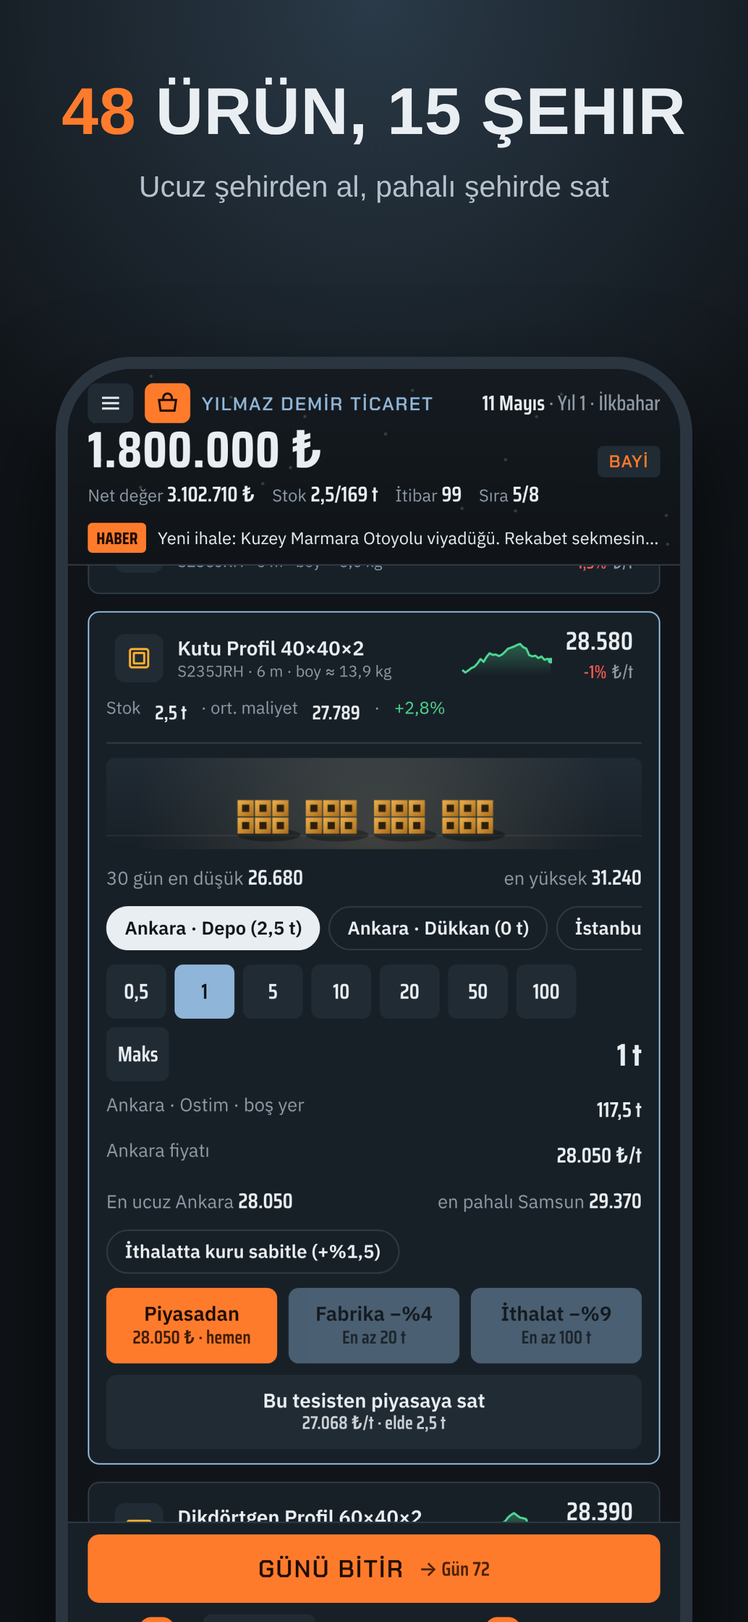
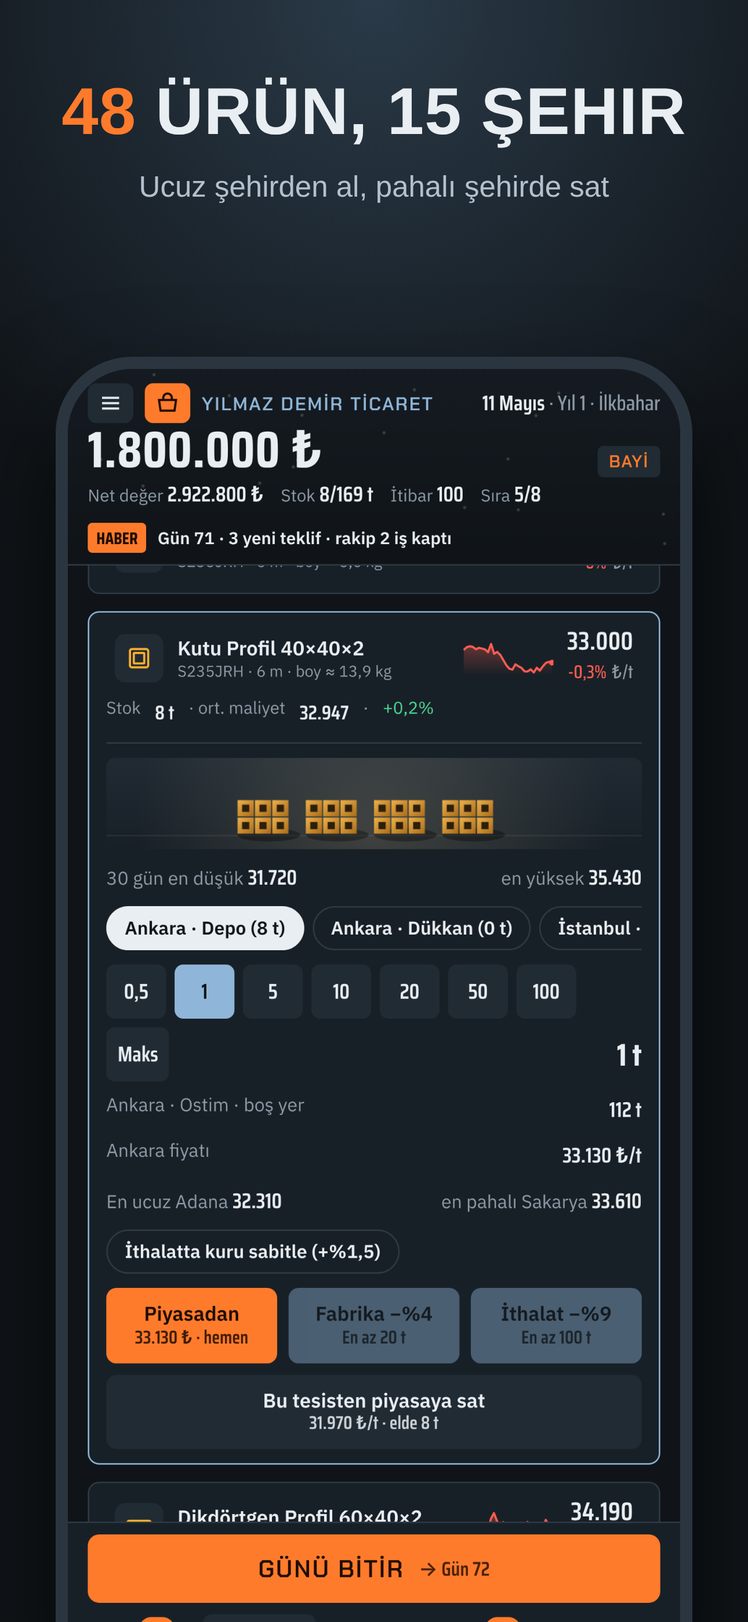
Demir Baronu: screen layout pass - nothing covers the content
- Main menu: in-flow industrial scene (was fixed and covered buttons on
  short phones), responsive logo, 2x2 tiles; fits iPhone SE without scroll
- Day summary goes to the HUD news line; toasts are small pills, max two,
  tap to dismiss
- Orders: tutorial, daily tasks, event, tender and price war become one
  swipeable row of pills with details on tap; offers visible at once
- Facilities: summary card with stock chips, details under 'Yönet'
- Company: 13 collapsible sections with summaries
- Fixed scroll strips collapsing to zero height inside the tab view
  (pills/filters could not be tapped); compact HUD on short screens;
  smaller bottom-sheet modals; store screenshots refreshed

Claude-Session: https://claude.ai/code/session_016sMKQh1ngtHg4vQwRxme7Z

diff --git a/DemirBaronu/web/play.html b/DemirBaronu/web/play.html
@@ -50,6 +50,7 @@ select { font: inherit; color: var(--fg); background: var(--bg); border: 1px sol
 
 /* Content */
 #main { flex: 1; overflow-y: auto; -webkit-overflow-scrolling: touch; padding-block: 12px 16px; display: flex; flex-direction: column; gap: 12px; }
+#main > * { flex-shrink: 0; }
 h2 { font-family: var(--display); font-size: 15px; letter-spacing: .06em; text-transform: uppercase; margin: 0; color: var(--steel); text-wrap: balance; }
 .sec { display: flex; flex-direction: column; gap: 8px; }
 .sechead { display: flex; justify-content: space-between; align-items: baseline; gap: 8px; flex-wrap: wrap; }
@@ -140,17 +141,20 @@ svg.nw { width: 100%; height: 90px; display: block; }
   font-family: var(--num); font-size: 12px; font-weight: 700; line-height: 17px; padding: 0 4px; }
 
 /* Toast + modal */
-#toast { position: fixed; left: 50%; transform: translateX(-50%); bottom: calc(140px + env(safe-area-inset-bottom, 0px)); width: min(520px, calc(100% - 28px));
-  display: flex; flex-direction: column; gap: 6px; pointer-events: none; z-index: 20; }
-#toast div { background: var(--fg); color: var(--bg); padding: 10px 12px; border-radius: 8px; font-size: 13px; font-weight: 500; box-shadow: 0 6px 24px rgba(0,0,0,.4);
-  animation: tin .22s ease-out; }
+#toast { position: fixed; left: 50%; transform: translateX(-50%); bottom: calc(132px + env(safe-area-inset-bottom, 0px)); width: min(480px, calc(100% - 40px));
+  display: flex; flex-direction: column; align-items: center; gap: 5px; pointer-events: none; z-index: 20; }
+#toast div { pointer-events: auto; cursor: pointer; max-width: 100%; box-sizing: border-box; background: rgba(233,238,242,.96); color: #14181d; padding: 7px 12px; border-radius: 16px;
+  font-size: 12.5px; font-weight: 600; line-height: 1.35; box-shadow: 0 6px 18px rgba(0,0,0,.35); animation: tin .2s ease-out;
+  display: -webkit-box; -webkit-line-clamp: 2; -webkit-box-orient: vertical; overflow: hidden; }
 #toast div.bad { background: var(--bad); color: #fff; }
 @keyframes tin { from { transform: translateY(8px); opacity: 0; } }
 #modal { position: fixed; inset: 0; background: rgba(5,8,10,.72); display: flex; align-items: flex-end; justify-content: center; z-index: 30;
   padding: 16px max(16px, env(safe-area-inset-right, 0px)) max(16px, env(safe-area-inset-bottom, 0px)) max(16px, env(safe-area-inset-left, 0px)); }
-#modal .box { background: var(--panel); border: 1px solid var(--line); border-radius: 12px; padding: 18px; width: 100%; max-width: 520px; display: flex; flex-direction: column; gap: 12px;
-  max-height: 88%; overflow-y: auto; }
-#modal h3 { font-family: var(--display); font-size: 22px; margin: 0; color: var(--hot); text-wrap: balance; }
+#modal .box { background: var(--panel); border: 1px solid var(--line); border-radius: 16px; padding: 16px; width: 100%; max-width: 480px; display: flex; flex-direction: column; gap: 10px;
+  max-height: 80%; overflow-y: auto; box-shadow: 0 -10px 40px rgba(0,0,0,.45); animation: sheet .22s ease-out; }
+@keyframes sheet { from { transform: translateY(24px); opacity: 0; } }
+#modal h3 { font-family: var(--display); font-size: 20px; margin: 0; color: var(--hot); text-wrap: balance; }
+#modal p { font-size: 14px; }
 #modal p { margin: 0; line-height: 1.5; color: var(--fg); }
 #modal ul { margin: 0; padding-left: 18px; line-height: 1.5; color: var(--muted); }
 #modal input { width: 100%; box-sizing: border-box; padding: 11px 12px; border-radius: 7px; border: 1px solid var(--line); background: var(--bg); color: var(--fg); font: inherit; font-size: 16px; }
@@ -181,9 +185,17 @@ svg.nw { width: 100%; height: 90px; display: block; }
 #menu { position: fixed; inset: 0; z-index: 25; background: radial-gradient(120% 70% at 50% 0%, #22303b 0%, var(--bg) 62%); overflow-y: auto; }
 #menu .inner { width: 100%; max-width: 480px; margin: 0 auto; box-sizing: border-box; min-height: 100%;
   padding-block: max(24px, env(safe-area-inset-top, 0px)) max(20px, env(safe-area-inset-bottom, 0px)); display: flex; flex-direction: column; gap: 12px; }
-.logo { font-family: var(--display); font-size: 46px; line-height: .92; letter-spacing: .02em; margin: 14px 0 0; text-transform: uppercase; }
+.logo { font-family: var(--display); font-size: clamp(36px, 12vw, 50px); line-height: .9; letter-spacing: .02em; margin: 6px 0 0; text-transform: uppercase; }
 .logo span { color: var(--hot); display: block; }
-.tagline { color: var(--muted); font-size: 14px; margin: 0 0 4px; line-height: 1.45; }
+.tagline { color: var(--muted); font-size: 13.5px; margin: 0; line-height: 1.45; max-width: 36ch; }
+.tiles { display: grid; grid-template-columns: repeat(2, minmax(0, 1fr)); gap: 8px; }
+.tile { text-align: left; padding: 12px; border-radius: 12px; background: var(--panel); border: 1px solid var(--line); display: grid; grid-template-columns: 30px minmax(0, 1fr); gap: 2px 10px; align-items: center; }
+.tile svg { grid-row: span 2; width: 26px; height: 26px; stroke: var(--hot); fill: none; stroke-width: 1.8; stroke-linecap: round; stroke-linejoin: round; }
+.tile b { font-size: 14.5px; } .tile small { font-size: 11.5px; color: var(--muted); line-height: 1.3; }
+.mfill { flex: 1 1 0; min-height: 4px; }
+.mfoot { color: var(--muted); font-size: 11.5px; margin: 0; text-align: center; }
+@media (max-height: 700px) { .tagline { display: none; } #menu .inner { gap: 9px; } .mbtn { padding: 11px 14px; }
+  #cash { font-size: 30px; } #hud { padding-block: 7px 6px; } #ticker { margin-top: 5px; } #endDay { padding: 10px; font-size: 16px; } #bottom { gap: 6px; } }
 .tape { overflow: hidden; border-block: 1px solid var(--line); padding: 7px 0; white-space: nowrap; font-family: var(--num); font-size: 15px; color: var(--muted); }
 .tape div { display: inline-block; animation: tape 90s linear infinite; }
 .tape b { color: var(--fg); font-weight: 600; margin-left: 4px; }
@@ -246,9 +258,28 @@ svg.map .route { animation: route 1.6s linear infinite; opacity: .85; }
 /* Visuals */
 canvas.scene { width: 100%; height: 136px; display: block; border-radius: 6px; background: var(--panel2); }
 canvas.pscene { width: 100%; height: 64px; display: block; border-radius: 6px; }
-canvas.mscene { position: absolute; left: 0; right: 0; bottom: 0; width: 100%; height: 210px; pointer-events: none; opacity: .85; }
-#menu .inner.scenic { padding-bottom: max(200px, env(safe-area-inset-bottom, 0px)); }
-#menu .inner { position: relative; z-index: 1; }
+canvas.mscene { display: block; flex: none; height: clamp(110px, 30vh, 300px); width: calc(100% + 2 * max(14px, env(safe-area-inset-left, 0px)));
+  margin-inline: calc(-1 * max(14px, env(safe-area-inset-left, 0px))); pointer-events: none; }
+/* compact status strip, accordions, facility summaries */
+.strip { display: flex; gap: 6px; overflow-x: auto; scrollbar-width: none; margin-inline: calc(-1 * max(14px, env(safe-area-inset-left, 0px))); padding-inline: max(14px, env(safe-area-inset-left, 0px)); }
+.strip::-webkit-scrollbar { display: none; }
+.pill { flex: none; display: inline-flex; align-items: center; gap: 6px; padding: 7px 11px; border-radius: 18px; background: var(--panel); border: 1px solid var(--line); font-size: 12.5px; font-weight: 600; white-space: nowrap; }
+.pill i { width: 7px; height: 7px; border-radius: 50%; background: var(--steel); flex: none; }
+.pill.hot i { background: var(--hot); } .pill.good i { background: var(--good); } .pill.bad i { background: var(--bad); } .pill.warn i { background: var(--warn); }
+.pill[aria-expanded="true"] { border-color: var(--steel); background: var(--panel2); }
+.pill .n { font-family: var(--num); color: var(--muted); }
+.acc { gap: 0; }
+.acc > .acch { display: flex; align-items: baseline; gap: 8px; width: 100%; text-align: left; padding: 11px 12px; border-radius: 10px; background: var(--panel); border: 1px solid var(--line); }
+.acc.open > .acch { border-bottom-left-radius: 0; border-bottom-right-radius: 0; border-bottom-color: transparent; }
+.acc > .acch h2 { flex: none; font-size: 13.5px; }
+.acc > .acch .muted { flex: 1; min-width: 0; text-align: right; font-size: 12.5px; white-space: nowrap; overflow: hidden; text-overflow: ellipsis; }
+.acc > .acch .chev { flex: none; color: var(--muted); font-size: 12px; width: 12px; text-align: center; }
+.acc.open > .acch + * { border-top-left-radius: 0; border-top-right-radius: 0; }
+.acc.open > .card { border-top: 0; }
+.acc .accbody { display: flex; flex-direction: column; gap: 8px; }
+.locsum { display: flex; gap: 6px; flex-wrap: wrap; }
+.locsum .chip { font-size: 11.5px; }
+#news.flash { color: var(--fg); font-weight: 600; }
 #fx { position: fixed; inset: 0; pointer-events: none; z-index: 28; overflow: hidden; }
 .fxtruck { position: absolute; left: 0; bottom: calc(132px + env(safe-area-inset-bottom, 0px)); width: 120px; height: 40px; animation: drive 1.5s cubic-bezier(.45,.05,.55,.95) forwards; }
 @keyframes drive { from { transform: translateX(-130px); } to { transform: translateX(calc(100vw + 10px)); } }
@@ -593,7 +624,7 @@ const shipRate = (a, b, own) => { const d = km(a, b); return own ? 40 + d * 0.45
 // =====================================================================
 // STATE
 // =====================================================================
-let S, UI = { tab: "orders", cat: "all", open: null, qty: 1, loc: null, onlyStock: false, move: null, newCity: null, newType: "depot" };
+let S, UI = { acc: {}, locOpen: {}, tab: "orders", cat: "all", open: null, qty: 1, loc: null, onlyStock: false, move: null, newCity: null, newType: "depot" };
 function mkRival([id, name, home, style, cat, nw, cap, color]) {
   return { id, name, home, style, cat, nw: nw * rnd(0.85, 1.15), cap, color, cities: [home], tons: 0, hist: [], alive: true };
 }
@@ -1455,6 +1486,9 @@ const ACT = {
   pause: () => showMenu("main"),
   menuGo: v => { UI.confirmWipe = false; if (v === "continue") { hideMenu(); render(); if (S.cards.length) showModal("card"); return; } showMenu(v); },
   setDiff: v => { UI.newDiff = v; showMenu("new"); },
+  acc: v => { const [id, cur] = v.split(":"); UI.acc[id] = cur !== "1"; render(); },
+  pill: v => { const k = "o_" + v; UI.acc[k] = !(UI.acc[k] === undefined ? (v === "tut" && S.day <= 3) : UI.acc[k]); render(); },
+  locOpen: v => { UI.locOpen[v] = !UI.locOpen[v]; render(); },
   setScen: v => { UI.newScen = v; showMenu("new"); },
   shop: v => { UI.storeFrom = v === "menu" ? "menu" : "game"; showMenu("store"); },
   buyIAP: v => buyIAP(v),
@@ -1610,7 +1644,8 @@ function renderHud() {
     `<span>Net değer <b>${tl(netWorth())}</b></span><span>Stok <b>${nf1.format(stockTotal())}/${nf0.format(capTotal())} t</b></span><span>İtibar <b class="${S.rep < 35 ? "bad" : ""}">${Math.round(S.rep)}</b></span><span>Sıra <b>${myRank()}/${aliveCount()}</b></span>` +
     (S.loan ? `<span>Kredi <b>${tl(S.loan)}</b></span>` : "");
   const n = S.news[0], ne = document.getElementById("news");
-  ne.textContent = n ? n.text : ""; ne.className = n && n.bad ? "bad" : "";
+  if (UI.flash && Date.now() < UI.flashUntil) { ne.textContent = UI.flash; ne.className = "flash"; }
+  else { ne.textContent = n ? n.text : ""; ne.className = n && n.bad ? "bad" : ""; }
   document.getElementById("endSub").textContent = `→ Gün ${S.day + 1}`;
   const tabs = [["orders", "Siparişler", ICONS.orders, S.offers.length + S.active.length], ["market", "Piyasa", ICONS.market, 0], ["stock", "Tesisler", ICONS.stock, 0], ["rival", "Rekabet", ICONS.rival, S.tenders.filter(t => t.bid === null).length], ["company", "Şirket", ICONS.company, 0]];
   document.getElementById("tabs").innerHTML = tabs.map(([k, l, ic, b]) =>
@@ -1649,15 +1684,24 @@ function renderOrders() {
   if (owns("manager")) h += `<div class="btns"><button class="btn st" data-act="autoDeliver">Kârlı olanları teslim et<small>Operasyon Müdürü</small></button><button class="btn" data-act="skip7">7 gün ilerle<small>olay çıkarsa durur</small></button></div>`;
   const sp = scenProgress();
   if (sp && !S.scen.done) h += `<div class="banner"><span class="t">Senaryo · ${SCENARIOS[S.scen.id].name}</span><p>${SCENARIOS[S.scen.id].desc}</p><p>${sp.text}</p><div class="bar"><i style="width:${sp.pct * 100}%"></i></div></div>`;
-  if (S.tut < TUT.length) { const t = TUT[S.tut];
-    h += `<div class="card"><div class="line2"><span><b style="font-family:var(--body);color:var(--hot)">İlk adımlar ${S.tut + 1}/${TUT.length}: ${t[0]}</b></span><b>+${tl(t[3])}</b></div>
-      <div class="muted">${t[1]}</div><div class="steps">${TUT.map((x, i) => `<i class="${i < S.tut ? "on" : ""}"></i>`).join("")}</div></div>`; }
-  if (S.daily) h += `<div class="card"><div class="line2"><span><b style="font-family:var(--body)">Günlük görevler</b></span><span>her biri ${tl(2000 * (level() + 1))} · itibar +1</span></div>
-    ${S.daily.tasks.map(t => `<div class="task ${t.done ? "done" : ""}"><span>${t.done ? "✓ " : ""}${taskText(t)}</span><b>${t.k === "profit" ? tlShort(Math.min(t.n, taskProg(t))) + " / " + tlShort(t.n) : nf1.format(Math.min(t.n, taskProg(t))) + " / " + nf1.format(t.n)}</b></div>`).join("")}</div>`;
-  if (S.event) h += eventBanner();
+  // one swipeable row of status pills; details open on tap so offers stay on the first screen
+  const ex = k => !!UI.acc["o_" + k];
+  const tutOpen = UI.acc.o_tut === undefined ? S.day <= 3 && S.tut < TUT.length : ex("tut");
+  const pills = [];
+  if (S.tut < TUT.length) pills.push(`<button class="pill hot" data-act="pill" data-v="tut" aria-expanded="${tutOpen}"><i></i>Adım ${S.tut + 1}/${TUT.length}: ${TUT[S.tut][0]}</button>`);
+  if (S.daily) { const d = S.daily.tasks.filter(t => t.done).length; pills.push(`<button class="pill ${d === 3 ? "good" : ""}" data-act="pill" data-v="daily" aria-expanded="${ex("daily")}"><i></i>Görevler <span class="n">${d}/3</span></button>`); }
+  if (S.event) pills.push(`<button class="pill warn" data-act="pill" data-v="event" aria-expanded="${ex("event")}"><i></i>${esc(S.event.name.split(":")[0])} <span class="n">${Math.max(1, S.event.end - S.day + 1)} gün</span></button>`);
   const openT = S.tenders.filter(t => t.bid === null);
-  if (openT.length) h += `<div class="banner"><span class="t">Açık ihale</span><p>${openT.map(t => `<b>${esc(t.proj)}</b>: ${ton(t.qty)} ${P[t.prod].name}`).join(" · ")}</p><button class="btn st" data-act="tab" data-v="rival">Rakiplere karşı teklif ver</button></div>`;
-  if (S.priceWar) h += `<div class="hint"><b>Fiyat savaşı:</b> ${esc((rivalById(S.priceWar.rival) || {}).name || "Bir rakip")} ${CATS[S.priceWar.cat].name} fiyatlarını kırdı (${S.priceWar.days} gün). Bu kategoride marjlar düşük ve rakip daha sık araya giriyor.</div>`;
+  if (openT.length) pills.push(`<button class="pill hot" data-act="tab" data-v="rival"><i></i>${openT.length} açık ihale ›</button>`);
+  if (S.priceWar) pills.push(`<button class="pill bad" data-act="pill" data-v="war" aria-expanded="${ex("war")}"><i></i>Fiyat savaşı: ${CATS[S.priceWar.cat].name}</button>`);
+  if (pills.length) h += `<div class="strip">${pills.join("")}</div>`;
+  if (S.tut < TUT.length && tutOpen) { const t = TUT[S.tut];
+    h += `<div class="card"><div class="line2"><span><b style="font-family:var(--body);color:var(--hot)">${t[0]}</b></span><b>+${tl(t[3])}</b></div>
+      <div class="muted">${t[1]}</div><div class="steps">${TUT.map((x, i) => `<i class="${i < S.tut ? "on" : ""}"></i>`).join("")}</div></div>`; }
+  if (S.daily && ex("daily")) h += `<div class="card"><div class="line2"><span><b style="font-family:var(--body)">Günlük görevler</b></span><span>her biri ${tl(2000 * (level() + 1))} · itibar +1</span></div>
+    ${S.daily.tasks.map(t => `<div class="task ${t.done ? "done" : ""}"><span>${t.done ? "✓ " : ""}${taskText(t)}</span><b>${t.k === "profit" ? tlShort(Math.min(t.n, taskProg(t))) + " / " + tlShort(t.n) : nf1.format(Math.min(t.n, taskProg(t))) + " / " + nf1.format(t.n)}</b></div>`).join("")}</div>`;
+  if (S.event && ex("event")) h += eventBanner();
+  if (S.priceWar && ex("war")) h += `<div class="hint"><b>Fiyat savaşı:</b> ${esc((rivalById(S.priceWar.rival) || {}).name || "Bir rakip")} ${CATS[S.priceWar.cat].name} fiyatlarını kırdı (${S.priceWar.days} gün). Bu kategoride marjlar düşük ve rakip daha sık araya giriyor.</div>`;
   if (S.active.length) h += `<section class="sec"><div class="sechead"><h2>Aktif siparişler</h2><span class="muted">${S.active.length}</span></div>${S.active.map(o => orderCard(o, true)).join("")}</section>`;
   h += `<section class="sec"><div class="sechead"><h2>Yeni teklifler</h2><span class="muted">Aracılık ${brokerQuota() - S.brokerToday}/${brokerQuota()} · filo ${ton(freeCap())}</span></div>`;
   h += S.offers.length ? S.offers.map(o => orderCard(o, false)).join("") : `<div class="hint">Şu an açık teklif yok. Günü bitir, yarın yeni teklifler gelir. Satış elemanı tutarsan her gün daha çok teklif gelir.</div>`;
@@ -1723,8 +1767,12 @@ function locCard(l) {
     <canvas class="scene" data-scene="loc" data-id="${l.id}" role="img" aria-label="${esc(locName(l))}: ${t.name}, ${nf1.format(used)} t stok"></canvas>
     <div class="line2"><span>Doluluk${inc ? ` (+${ton(inc)} yolda)` : ""}</span><b>${nf1.format(used)} / ${cap} t</b></div>
     <div class="bar"><i class="${(used + inc) / cap > 0.9 ? "full" : ""}" style="width:${Math.min(100, (used + inc) / cap * 100)}%"></i></div>
-    <div class="line2"><span>Yükleme bugün</span><b>${ton(l.used)} / ${ton(locHandle(l))}</b></div>
-    <div class="line2"><span>Aylık kira</span><b>${tl(t.rent)}</b></div>`;
+    <div class="line2"><span>Yükleme bugün <b>${ton(l.used)} / ${ton(locHandle(l))}</b></span><span>kira <b>${tlShort(t.rent)}${tlShort(t.rent).endsWith("₺") ? "" : " ₺"}/ay</b></span></div>`;
+  const ents = Object.entries(l.stock).sort((a, b) => b[1].q - a[1].q);
+  const openL = !!UI.locOpen[l.id];
+  h += `<div class="item"><div class="locsum">${ents.length ? ents.slice(0, 3).map(([id, s]) => `<span class="chip">${P[id].name.replace(/ \(.*\)/, "")} · ${ton(s.q)}</span>`).join("") + (ents.length > 3 ? `<span class="chip">+${ents.length - 3} ürün</span>` : "") : `<span class="chip">Boş</span>`}</div>
+    <button class="btn ${openL ? "" : "st"} sm" data-act="locOpen" data-v="${l.id}" aria-expanded="${openL}">${openL ? "Kapat ▴" : "Yönet ▾"}</button></div>`;
+  if (!openL) return h + `</div>`;
   if (l.type === "shop") h += `<div class="item"><div><b>Tezgâhtar</b> <span class="muted">× ${l.clerks}</span><div class="muted">Kapı müşterisi +%50 her biri · aylık ${tl(CLERK.salary)} · günde ~${Math.round(t.walk * C[l.city].size * (1 + 0.5 * l.clerks) * S.rep / 60)} müşteri</div></div>
     <div class="btns">${l.clerks ? `<button class="btn ghost sm" data-act="clerk" data-v="${l.id}:-1">−</button>` : ""}<button class="btn st sm" data-act="clerk" data-v="${l.id}:1" ${l.clerks >= CLERK.max ? "disabled" : ""}>+</button></div></div>`;
   for (const [k, e] of Object.entries(EQUIP)) {
@@ -1827,7 +1875,7 @@ function renderRival() {
 // ---------- main menu ----------
 const hasGame = () => S && S.seen.intro;
 function showMenu(view) { UI.menu = view; const m = document.getElementById("menu"); m.hidden = false;
-  m.innerHTML = (view === "main" || view === "new" ? `<canvas class="mscene" data-scene="menu" aria-hidden="true"></canvas>` : "") + `<div class="inner gut ${view === "main" || view === "new" ? "scenic" : ""}">${menuHtml(view)}</div>`; m.scrollTop = 0; visMount();
+  m.innerHTML = `<div class="inner gut">${menuHtml(view)}</div>`; m.scrollTop = 0; visMount();
   const f = m.querySelector(".mbtn, input"); if (f && view !== "new") f.focus(); }
 function hideMenu() { UI.menu = null; const m = document.getElementById("menu"); m.hidden = true; m.innerHTML = ""; }
 // ---------- in-app purchases ----------
@@ -1998,16 +2046,21 @@ function menuHtml(v) {
   // main
   const items = PRODUCTS.filter(p => p.lvl <= 2).map(p => { const ch = price(p.id) / prevPrice(p.id) - 1; return `${p.name}<b>${nf0.format(price(p.id))}</b><i class="${ch >= 0 ? "good" : "bad"}">${pct(ch)}</i>`; }).join("");
   const g = hasGame() && !S.over;
+  const tile = (act, v, ic, t, sub) => `<button class="tile" data-act="${act}" data-v="${v}"><svg viewBox="0 0 24 24" aria-hidden="true">${ic}</svg><b>${t}</b><small>${sub}</small></button>`;
   return `<h1 class="logo">Demir<span>Baronu</span></h1>
-    <p class="tagline">Boru, profil, sac ve inşaat demiri ticareti. Cebinde 5.000 ₺ ve bir telefonla başla, rakip şirketleri geç, sektörün baronu ol.</p>
+    <p class="tagline">Boru, profil, sac ve inşaat demiri ticareti. 5.000 ₺ ile başla, rakipleri geç, sektörün baronu ol.</p>
     <div class="tape" aria-hidden="true"><div>${items}${items}</div></div>
-    ${g ? `<button class="mbtn hot" data-act="menuGo" data-v="continue"><span>Devam et<small>${esc(S.name)} · ${dateStr()} Yıl ${yearOf()} · ${LEVELS[level()].name} · ${tl(netWorth())} · ${myRank()}. sıra</small></span><span class="arrow">›</span></button>` : ""}
+    ${g ? `<button class="mbtn hot" data-act="menuGo" data-v="continue"><span>Devam et<small>${esc(S.name)} · ${dateStr()} Yıl ${yearOf()} · ${LEVELS[level()].name} · ${tlShort(netWorth())}${tlShort(netWorth()).endsWith("₺") ? "" : " ₺"} · ${myRank()}. sıra</small></span><span class="arrow">›</span></button>` : ""}
     <button class="mbtn ${g ? "" : "hot"}" data-act="menuGo" data-v="new"><span>Yeni oyun<small>Şirketini kur, şehrini ve zorluğu seç</small></span><span class="arrow">›</span></button>
-    <button class="mbtn" data-act="shop" data-v="menu"><span>Mağaza<small>Sermaye, güçlendiriciler, Baron Kulübü, temalar</small></span><span class="arrow">›</span></button>
-    <button class="mbtn" data-act="menuGo" data-v="help"><span>Nasıl oynanır<small>Aracılık, tesisler, rakipler, ihaleler</small></span><span class="arrow">›</span></button>
-    <button class="mbtn" data-act="menuGo" data-v="records"><span>Rekorlar<small>En iyi şirketlerin</small></span><span class="arrow">›</span></button>
-    <button class="mbtn" data-act="menuGo" data-v="settings"><span>Ayarlar<small>Bildirimler, verileri sil</small></span><span class="arrow">›</span></button>
-    <p class="muted" style="margin-top:auto;font-size:12px">Prototip · kayıt bu cihazda tutulur</p>`;
+    <div class="tiles">
+      ${tile("shop", "menu", '<path d="M4 9h16l-1.5 11h-13z"/><path d="M8 9V7a4 4 0 0 1 8 0v2"/>', "Mağaza", "Paketler, kulüp, temalar")}
+      ${tile("menuGo", "help", '<path d="M4 5a2 2 0 0 1 2-2h5v17H6a2 2 0 0 0-2 2z"/><path d="M20 5a2 2 0 0 0-2-2h-5v17h5a2 2 0 0 1 2 2z"/>', "Nasıl oynanır", "Kısa rehber")}
+      ${tile("menuGo", "records", '<path d="M8 4h8v5a4 4 0 0 1-8 0z"/><path d="M8 6H5a3 3 0 0 0 3 4M16 6h3a3 3 0 0 1-3 4M12 13v4M8 20h8"/>', "Rekorlar", "En iyi şirketlerin")}
+      ${tile("menuGo", "settings", '<circle cx="12" cy="12" r="3"/><path d="M12 2v3M12 19v3M4.2 4.2l2.1 2.1M17.7 17.7l2.1 2.1M2 12h3M19 12h3M4.2 19.8l2.1-2.1M17.7 6.3l2.1-2.1"/>', "Ayarlar", "Ses, animasyon")}
+    </div>
+    <div class="mfill"></div>
+    <canvas class="mscene" data-scene="menu" aria-hidden="true"></canvas>
+    <p class="mfoot">Prototip · kayıt bu cihazda tutulur</p>`;
 }
 const STATUS_TXT = { normal: "", takip: "Takipte", icra: "İcrada", dava: "Davada", sigorta: "Sigortada" };
 function recvCard(r) {
@@ -2041,64 +2094,72 @@ function nwChart() {
     <polyline points="${pts.join(" ")}" fill="none" stroke="var(--steel)" stroke-width="2" vector-effect="non-scaling-stroke"/></svg>
     <div class="line2"><span>${h.length} gün önce <b>${tl(h[0])}</b></span><span>bugün <b>${tl(h[h.length - 1])}</b></span></div>`;
 }
+function accSec(id, title, sum, body, def) {
+  const open = UI.acc[id] === undefined ? !!def : UI.acc[id];
+  return `<section class="sec acc ${open ? "open" : ""}"><button class="acch" data-act="acc" data-v="${id}:${open ? 1 : 0}" aria-expanded="${open}"><h2>${title}</h2><span class="muted">${sum}</span><span class="chev">${open ? "▾" : "▸"}</span></button>${open ? body : ""}</section>`;
+}
 function renderCompany() {
   const l = level(), L = LEVELS[l], N = LEVELS[l + 1];
-  let h = `<section class="sec"><h2>Unvan</h2><div class="card">
+  let h = accSec("title", "Unvan", `${L.name}${N ? " → " + N.name : ""}`, `<div class="card">
     <div class="line2"><span>Toplam satılan</span><b>${ton(S.tons)}</b></div>
     ${N ? `<div class="bar"><i style="width:${Math.min(100, (S.tons - L.tons) / (N.tons - L.tons) * 100)}%"></i></div>
     <div class="line2"><span>Net değer</span><b class="${netWorth() >= N.worth ? "good" : ""}">${tl(netWorth())} / ${tl(N.worth)}</b></div>
     <div class="muted">${N.name} için ${ton(N.tons)} satış ve ${tl(N.worth)} net değer gerekir. Açılacaklar: ${N.perk}.</div>`
     : `<div class="good">Demir Baronu oldun. Artık hedef net değeri büyütmek.</div>`}
-    <div class="ladder">${LEVELS.map((x, i) => `<div class="${i === l ? "me" : i < l ? "done" : ""}"><span>${x.name}</span><span class="num">${nf0.format(x.tons)} t · ${tl(x.worth)}</span></div>`).join("")}</div></div></section>`;
-  h += `<section class="sec"><h2>Net değer</h2><div class="card">${nwChart()}</div></section>`;
-  h += `<section class="sec"><div class="sechead"><h2>Filo</h2><span class="muted">${ton(fleetCap())}/gün · fazlası nakliyeciyle</span></div><div class="card">`;
-  for (const [k, v] of Object.entries(VEHICLES)) h += `<div class="item"><div><b>${v.name}</b> <span class="muted">× ${S.vehicles[k]}</span><div class="muted">${v.cap} t/gün · yakıt ~0,45 ₺/t·km · aylık ${tl(v.monthly)}</div></div>
+    <div class="ladder">${LEVELS.map((x, i) => `<div class="${i === l ? "me" : i < l ? "done" : ""}"><span>${x.name}</span><span class="num">${nf0.format(x.tons)} t · ${tl(x.worth)}</span></div>`).join("")}</div></div>`, true);
+  h += accSec("nw", "Net değer", tl(netWorth()), `<div class="card">${nwChart()}</div>`, true);
+  const nveh = Object.values(S.vehicles).reduce((a, b) => a + b, 0);
+  let body = `<div class="card">`;
+  for (const [k, v] of Object.entries(VEHICLES)) body += `<div class="item"><div><b>${v.name}</b> <span class="muted">× ${S.vehicles[k]}</span><div class="muted">${v.cap} t/gün · yakıt ~0,45 ₺/t·km · aylık ${tl(v.monthly)}</div></div>
     <div class="btns">${S.vehicles[k] ? `<button class="btn ghost sm" data-act="vehSell" data-v="${k}">Sat</button>` : ""}<button class="btn st sm" data-act="veh" data-v="${k}" ${S.cash < v.price ? "disabled" : ""}>${tl(v.price)}</button></div></div>`;
-  h += `<div class="muted">Kendi aracın yalnızca yakıt öder. Nakliyeci aynı şehirde 150 ₺/t, şehirler arası 250 ₺ + 1,1 ₺/km alır.</div></div></section>`;
-  h += `<section class="sec"><h2>Atölye makineleri</h2><div class="card">`;
-  for (const [k, m] of Object.entries(MACHINES)) h += `<div class="item"><div><b>${m.name}</b><div class="muted">${m.desc}.${m.proc ? ` ${PROCS[m.proc].name} siparişinde %${Math.round(PROCS[m.proc].fason * 100)} fason masrafı yerine yalnızca %1,2 fire.` : ""}${m.lvl && level() < m.lvl ? ` ${LEVELS[m.lvl].name} unvanında açılır.` : ""}</div></div>
+  body += `<div class="muted">Kendi aracın yalnızca yakıt öder. Nakliyeci aynı şehirde 150 ₺/t, şehirler arası 250 ₺ + 1,1 ₺/km alır.</div></div>`;
+  h += accSec("fleet", "Filo", nveh ? `${nveh} araç · ${ton(fleetCap())}/gün` : "Araç yok, nakliyeci", body);
+  body = `<div class="card">`;
+  for (const [k, m] of Object.entries(MACHINES)) body += `<div class="item"><div><b>${m.name}</b><div class="muted">${m.desc}.${m.proc ? ` ${PROCS[m.proc].name} siparişinde %${Math.round(PROCS[m.proc].fason * 100)} fason masrafı yerine yalnızca %1,2 fire.` : ""}${m.lvl && level() < m.lvl ? ` ${LEVELS[m.lvl].name} unvanında açılır.` : ""}</div></div>
     ${S.machines[k] ? `<span class="chip g">Kurulu</span>` : `<button class="btn st sm" data-act="mach" data-v="${k}" ${S.cash < m.price || (m.lvl && level() < m.lvl) ? "disabled" : ""}>${tl(m.price)}</button>`}</div>`;
-  h += `</div></section>`;
-  h += `<section class="sec"><h2>Personel</h2><div class="card">`;
-  for (const [k, s] of Object.entries(STAFF)) h += `<div class="item"><div><b>${s.name}</b> <span class="muted">× ${S.staff[k]}</span><div class="muted">${s.desc} · aylık ${tl(s.salary)}</div></div>
+  h += accSec("mach", "Atölye", `${Object.values(S.machines).filter(Boolean).length}/${Object.keys(MACHINES).length} makine`, body + `</div>`);
+  body = `<div class="card">`;
+  for (const [k, s] of Object.entries(STAFF)) body += `<div class="item"><div><b>${s.name}</b> <span class="muted">× ${S.staff[k]}</span><div class="muted">${s.desc} · aylık ${tl(s.salary)}</div></div>
     <div class="btns">${S.staff[k] ? `<button class="btn ghost sm" data-act="fire" data-v="${k}">Çıkar</button>` : ""}<button class="btn st sm" data-act="hire" data-v="${k}" ${S.staff[k] >= s.max ? "disabled" : ""}>İşe al</button></div></div>`;
-  h += `<div class="muted">Tezgâhtarlar dükkan kartından alınır.</div></div></section>`;
-  h += `<section class="sec"><h2>Sigorta</h2><div class="card"><div class="item"><div><b>${S.insured ? "Stoklar sigortalı" : "Sigorta yok"}</b><div class="muted">Hırsızlık ve yangında zararın %90'ı ödenir. Prim aylık stok değerinin %${nf1.format(INS_RATE * 100)}'i (şu an ${tl(Math.max(1000, stockValue() * INS_RATE))}).</div></div>
+  const nstaff = Object.values(S.staff).reduce((a, b) => a + b, 0);
+  h += accSec("staff", "Personel", nstaff ? `${nstaff} kişi` : "Kimse yok", body + `<div class="muted">Tezgâhtarlar dükkan kartından alınır.</div></div>`);
+  h += accSec("ins", "Sigorta", `${S.insured ? "Stok ✓" : "Stok ✗"} · ${S.credIns ? "Alacak ✓" : "Alacak ✗"}`, `<div class="card"><div class="item"><div><b>${S.insured ? "Stoklar sigortalı" : "Sigorta yok"}</b><div class="muted">Hırsızlık ve yangında zararın %90'ı ödenir. Prim aylık stok değerinin %${nf1.format(INS_RATE * 100)}'i (şu an ${tl(Math.max(1000, stockValue() * INS_RATE))}).</div></div>
     <button class="btn ${S.insured ? "ghost" : "st"} sm" data-act="insure">${S.insured ? "İptal et" : "Sigortala"}</button></div>
     <div class="item"><div><b>${S.credIns ? "Alacaklar kredi sigortalı" : "Kredi sigortası yok"}</b><div class="muted">Müşteri ödemezse 30 gün içinde alacağın %80'i ödenir. Prim aylık açık alacakların %0,4'ü (şu an ${tl(Math.max(2000, recvNormal() * 0.004))}).</div></div>
-    <button class="btn ${S.credIns ? "ghost" : "st"} sm" data-act="credIns">${S.credIns ? "İptal et" : "Sigortala"}</button></div></div></section>`;
+    <button class="btn ${S.credIns ? "ghost" : "st"} sm" data-act="credIns">${S.credIns ? "İptal et" : "Sigortala"}</button></div></div>`);
   const lim = loanLimit(), step = Math.max(50000, Math.round(lim / 5 / 10000) * 10000);
-  h += `<section class="sec"><h2>Banka</h2><div class="card"><div class="kv">
+  h += accSec("bank", "Banka", `borç ${tlShort(S.loan)} · limit ${tlShort(lim)}`, `<div class="card"><div class="kv">
     <span>Kredi borcu</span><span>${tl(S.loan)}</span><span>Kredi limiti</span><span>${tl(lim)}</span>
     <span>Aylık faiz</span><span>%${nf1.format(loanRate() * 100)}</span><span>Eksi bakiye sınırı</span><span>−${tl(overdraftLimit())}</span></div>
     <div class="btns"><button class="btn st" data-act="loan" data-v="${step}" ${lim - S.loan <= 0 ? "disabled" : ""}>Kredi çek<small>+${tl(Math.min(step, Math.max(0, lim - S.loan)))}</small></button>
-    <button class="btn" data-act="repay" data-v="0" ${S.loan <= 0 || S.cash <= 0 ? "disabled" : ""}>Öde<small>${tl(Math.min(S.loan, Math.max(0, S.cash)))}</small></button></div></div></section>`;
-  h += `<section class="sec"><div class="sechead"><h2>Alacaklar</h2><span class="muted">${tl(recvTotal())}</span></div>`;
-  h += S.recv.length ? S.recv.slice().sort((a, b) => (a.status === "normal") - (b.status === "normal") || a.due - b.due).map(recvCard).join("")
-    : `<div class="hint">Vadeli sattığında alacakların burada görünür. Müşteri bazen geç öder, bazen kısmen öder, bazen hiç ödemez. Ödemeyen için icra ya da dava açabilirsin.</div>`;
-  if (S.suits.length) h += `<div class="card"><b>Aleyhine davalar</b>${S.suits.map(x => `<div class="line2"><span>${esc(x.cust)} · ${x.kind === "accident" ? "iş kazası tazminatı" : "kalite tazminatı"} ${tl(x.claim)}</span><b>${x.stage === "court" ? "karar " + dateStr(x.end) : "bekliyor"}</b></div>`).join("")}</div>`;
-  h += `</section>`;
+    <button class="btn" data-act="repay" data-v="0" ${S.loan <= 0 || S.cash <= 0 ? "disabled" : ""}>Öde<small>${tl(Math.min(S.loan, Math.max(0, S.cash)))}</small></button></div></div>`);
+  const nlegal = S.recv.filter(r => r.status !== "normal").length;
+  body = `<div class="accbody">` + (S.recv.length ? S.recv.slice().sort((a, b) => (a.status === "normal") - (b.status === "normal") || a.due - b.due).map(recvCard).join("")
+    : `<div class="hint">Vadeli sattığında alacakların burada görünür. Müşteri bazen geç öder, bazen kısmen öder, bazen hiç ödemez. Ödemeyen için icra ya da dava açabilirsin.</div>`);
+  if (S.suits.length) body += `<div class="card"><b>Aleyhine davalar</b>${S.suits.map(x => `<div class="line2"><span>${esc(x.cust)} · ${x.kind === "accident" ? "iş kazası tazminatı" : "kalite tazminatı"} ${tl(x.claim)}</span><b>${x.stage === "court" ? "karar " + dateStr(x.end) : "bekliyor"}</b></div>`).join("")}</div>`;
+  h += accSec("recv", "Alacaklar", `${tlShort(recvTotal())}${nlegal ? ` · ${nlegal} takipte` : ""}${S.suits.length ? ` · ${S.suits.length} dava` : ""}`, body + `</div>`, nlegal > 0);
   const mc = monthlyCosts(), mt = mc.reduce((a, [, v]) => a + v, 0);
-  h += `<section class="sec"><h2>Ay sonu</h2><div class="card"><div class="kv">${mc.map(([k, v]) => `<span>${k}</span><span>${tl(v)}</span>`).join("")}
+  h += accSec("month", "Ay sonu", `gider ${tlShort(mt)} · ${30 - ((S.day - 1) % 30)} gün kaldı`, `<div class="card"><div class="kv">${mc.map(([k, v]) => `<span>${k}</span><span>${tl(v)}</span>`).join("")}
     <span><b>Sabit giderler</b></span><span><b>${tl(mt)}</b></span><span>Bu ayki kâr (şimdiye kadar)</span><span class="${S.mProfit >= 0 ? "good" : "bad"}">${tl(S.mProfit)}</span>
-    <span>Tahmini vergi (%${Math.round(taxRate() * 100)})</span><span>${tl(Math.max(0, S.mProfit - mt) * taxRate())}</span></div></div></section>`;
+    <span>Tahmini vergi (%${Math.round(taxRate() * 100)})</span><span>${tl(Math.max(0, S.mProfit - mt) * taxRate())}</span></div></div>`);
   const loyal = Object.entries(S.rel).filter(([, v]) => v >= 3).sort((a, b) => b[1] - a[1]);
-  h += `<section class="sec"><div class="sechead"><h2>Sadık müşteriler</h2><span class="muted">${loyal.length}</span></div><div class="card">
-    ${loyal.length ? loyal.slice(0, 8).map(([f, v]) => `<div class="line2"><span>${esc(f)}</span><b>${v} iş</b></div>`).join("") : `<div class="muted">Bir firmaya 3 kez teslimat yapınca sadık müşterin olur: daha iyi fiyat, daha düşük risk.</div>`}</div></section>`;
-  h += `<section class="sec"><div class="sechead"><h2>Başarımlar</h2><span class="muted">${Object.keys(S.ach).length}/${ACH.length}</span></div><div class="card">
-    ${ACH.map(a => `<div class="ach"><span class="${S.ach[a.id] ? "ok" : "no"}">${S.ach[a.id] ? "✓" : "○"}</span><div><b>${a.name}</b><div class="muted">${a.desc}</div></div><span class="num muted">${tl(a.reward)}</span></div>`).join("")}</div></section>`;
-  h += `<section class="sec"><h2>İstatistik</h2><div class="card"><div class="kv">
+  h += accSec("loyal", "Sadık müşteriler", `${loyal.length} firma`, `<div class="card">
+    ${loyal.length ? loyal.slice(0, 8).map(([f, v]) => `<div class="line2"><span>${mono(f)} ${esc(f)}</span><b>${v} iş</b></div>`).join("") : `<div class="muted">Bir firmaya 3 kez teslimat yapınca sadık müşterin olur: daha iyi fiyat, daha düşük risk.</div>`}</div>`);
+  h += accSec("ach", "Başarımlar", `${Object.keys(S.ach).length}/${ACH.length}`, `<div class="card">
+    ${ACH.map(a => `<div class="ach"><span class="${S.ach[a.id] ? "ok" : "no"}">${S.ach[a.id] ? "✓" : "○"}</span><div><b>${a.name}</b><div class="muted">${a.desc}</div></div><span class="num muted">${tl(a.reward)}</span></div>`).join("")}</div>`);
+  h += accSec("stats", "İstatistik", `kâr ${tlShort(S.stats.profit)}`, `<div class="card"><div class="kv">
     <span>Toplam kâr</span><span>${tl(S.stats.profit)}</span><span>Kapanan sipariş</span><span>${S.stats.deals} (aracılık ${S.stats.brokered})</span>
     <span>Perakende satış</span><span>${S.stats.retail} · ${tl(S.stats.retailRev)}</span><span>En kârlı iş</span><span>${tl(S.stats.best)}</span>
     <span>Ödenen vergi</span><span>${tl(S.stats.taxes)}</span><span>Karşılıksız çek</span><span>${S.stats.defaults}</span>
-    <span>Hırsızlık / yangın</span><span>${S.stats.incidents}</span><span>Geciken sipariş</span><span>${S.stats.late}</span></div></div></section>`;
-  h += `<section class="sec"><h2>Haberler</h2><div class="card">${S.news.slice(0, 10).map(n => `<div class="line2"><span class="${n.bad ? "bad" : ""}" style="${n.bad ? "" : "color:var(--fg)"}">${esc(n.text)}</span><b>G${n.day}</b></div>`).join("")}</div></section>`;
+    <span>Hırsızlık / yangın</span><span>${S.stats.incidents}</span><span>Geciken sipariş</span><span>${S.stats.late}</span></div></div>`);
+  h += accSec("news", "Haberler", S.news[0] ? esc(S.news[0].text) : "", `<div class="card">${S.news.slice(0, 10).map(n => `<div class="line2"><span class="${n.bad ? "bad" : ""}" style="${n.bad ? "" : "color:var(--fg)"}">${esc(n.text)}</span><b>${dateStr(n.day)}</b></div>`).join("")}</div>`);
   if (level() === LEVELS.length - 1) { const pts = legacyGain();
-    h += `<section class="sec"><h2>Şirketi sat</h2><div class="card"><div class="muted">Şirketini satıp yeni bir şehirde sıfırdan başlayabilirsin. ${pts} miras puanı kazanırsın. Her puan yeni oyunlarda +10.000 ₺ başlangıç, +2 itibar ve teklif fiyatlarında +%0,2 verir. Şu anki miras: ${LEG.points} puan.</div>
-      <button class="btn hot" data-act="sellCo">Şirketi sat · +${pts} miras puanı</button></div></section>`; }
+    h += accSec("sell", "Şirketi sat", `+${pts} miras puanı`, `<div class="card"><div class="muted">Şirketini satıp yeni bir şehirde sıfırdan başlayabilirsin. ${pts} miras puanı kazanırsın. Her puan yeni oyunlarda +10.000 ₺ başlangıç, +2 itibar ve teklif fiyatlarında +%0,2 verir. Şu anki miras: ${LEG.points} puan.</div>
+      <button class="btn hot" data-act="sellCo">Şirketi sat · +${pts} miras puanı</button></div>`, true); }
   h += `<button class="btn ghost" style="align-self:flex-start" data-act="reset">Yeni oyun başlat</button>`;
   return h;
 }
+
 // =====================================================================
 // VISUALS: canvas scenes (facilities, menu, season particles, products), screen effects, avatars, modal art.
 // Scenes draw a still frame at once; animation runs only for canvases on screen, at most 30 fps, and stops when
@@ -2508,8 +2569,9 @@ function toast(msg, bad) {
   if (bad) beep("error");
   const t = document.getElementById("toast"), d = document.createElement("div");
   d.textContent = msg; if (bad) d.className = "bad"; t.appendChild(d);
-  while (t.children.length > 3) t.firstChild.remove();
-  setTimeout(() => d.remove(), 3400);
+  while (t.children.length > 2) t.firstChild.remove();
+  d.addEventListener("click", () => d.remove());
+  setTimeout(() => d.remove(), bad ? 3600 : 2800);
 }
 const MQ = [];
 function showModal(kind, data) {
@@ -2541,7 +2603,8 @@ function closeModal() {
   const md = document.getElementById("modal"); md.hidden = true; md.innerHTML = "";
   if (MQ.length) { const [k, d] = MQ.shift(); showModal(k, d); } else if (S && S.cards && S.cards.length) showModal("card");
 }
-function info(msg) { if (SET.toasts) toast(msg); }
+// Day summaries go to the HUD news line instead of covering the screen
+function info(msg) { if (!SET.toasts) return; UI.flash = msg; UI.flashUntil = Date.now() + 4500; const ne = document.getElementById("news"); if (ne) { ne.textContent = msg; ne.className = "flash"; } }
 
 // =====================================================================
 // SAVE + BOOT
@@ -2592,6 +2655,7 @@ function start(data) {
   S = (hot && data.S) || load();
   if (S) { migrate(S); genDaily(); }
   if (data && data.UI && S) UI = Object.assign(UI, data.UI);
+  UI.acc = UI.acc || {}; UI.locOpen = UI.locOpen || {};
   if (!S) newGame();
   render();
   if (hot) { if (UI.menu) showMenu(UI.menu); else if (S.cards.length) showModal("card"); }

diff --git a/DemirBaronu/GDD.md b/DemirBaronu/GDD.md
@@ -400,6 +400,16 @@ Görsel dosya kullanılmaz. Her şey kodla çizilir (canvas ve SVG); bu yüzden 
 6. **Şirket:** unvan, net değer grafiği, filo, atölye makineleri, personel, sigorta, banka, alacaklar, ay sonu tahmini (vergi dahil), sadık müşteriler, başarımlar, istatistik, haberler
 7. **Üst bar:** menü düğmesi, tarih ve mevsim, kasa, unvan, net değer, stok/kapasite, itibar, sektör sırası, haber bandı. Altta büyük **Günü Bitir** düğmesi
 
+### Ekran düzeni ilkeleri
+
+- **Ana menü:** ekran yüksekliğine göre küçülen logo, iki ana düğme ve 2×2 karo. Fabrika sahnesi akışın sonunda durur, hiçbir düğmenin üstüne binmez. Kısa ekranlarda (≤700 px) tanıtım cümlesi gizlenir ve aralıklar daralır; iPhone SE'de kaydırma gerekmez.
+- **Bildirimler:** Gün sonu özeti üst bardaki haber satırına yazılır. Baloncuklar küçük ve en fazla 2 tanedir; 2,8 saniyede kaybolur, dokununca kapanır.
+- **Siparişler:** Eğitim, görevler, etkinlik, ihale ve fiyat savaşı tek satırlık kaydırılabilir etiketlerdedir; dokununca ayrıntı açılır. Teklifler ilk ekranda görünür.
+- **Tesisler:** Kartta sahne, doluluk, yükleme, kira ve stok özeti görünür. Ekipman, büyütme ve stok satırları "Yönet" altındadır.
+- **Şirket:** 13 bölüm özet satırlı açılır başlıklardır. Unvan ve net değer açık başlar; takipte alacak varsa Alacaklar da açılır.
+- **Pencereler:** alttan açılan kart, ekranın en fazla %80'i; çizim yüksekliği 64–84 px.
+- **Kontrol:** Her sürümde 19 ekran 375×667 ve 430×932 boyutlarında otomatik çekilir; yatay taşma ve konsol hatası denetlenir.
+
 ## 13. Teknik plan
 
 - **Prototip (bitti):** tek dosyalık HTML/JS, `DemirBaronu/web/play.html`. Tüm kurallar burada çalışıyor, kayıt tarayıcıda tutuluyor.
